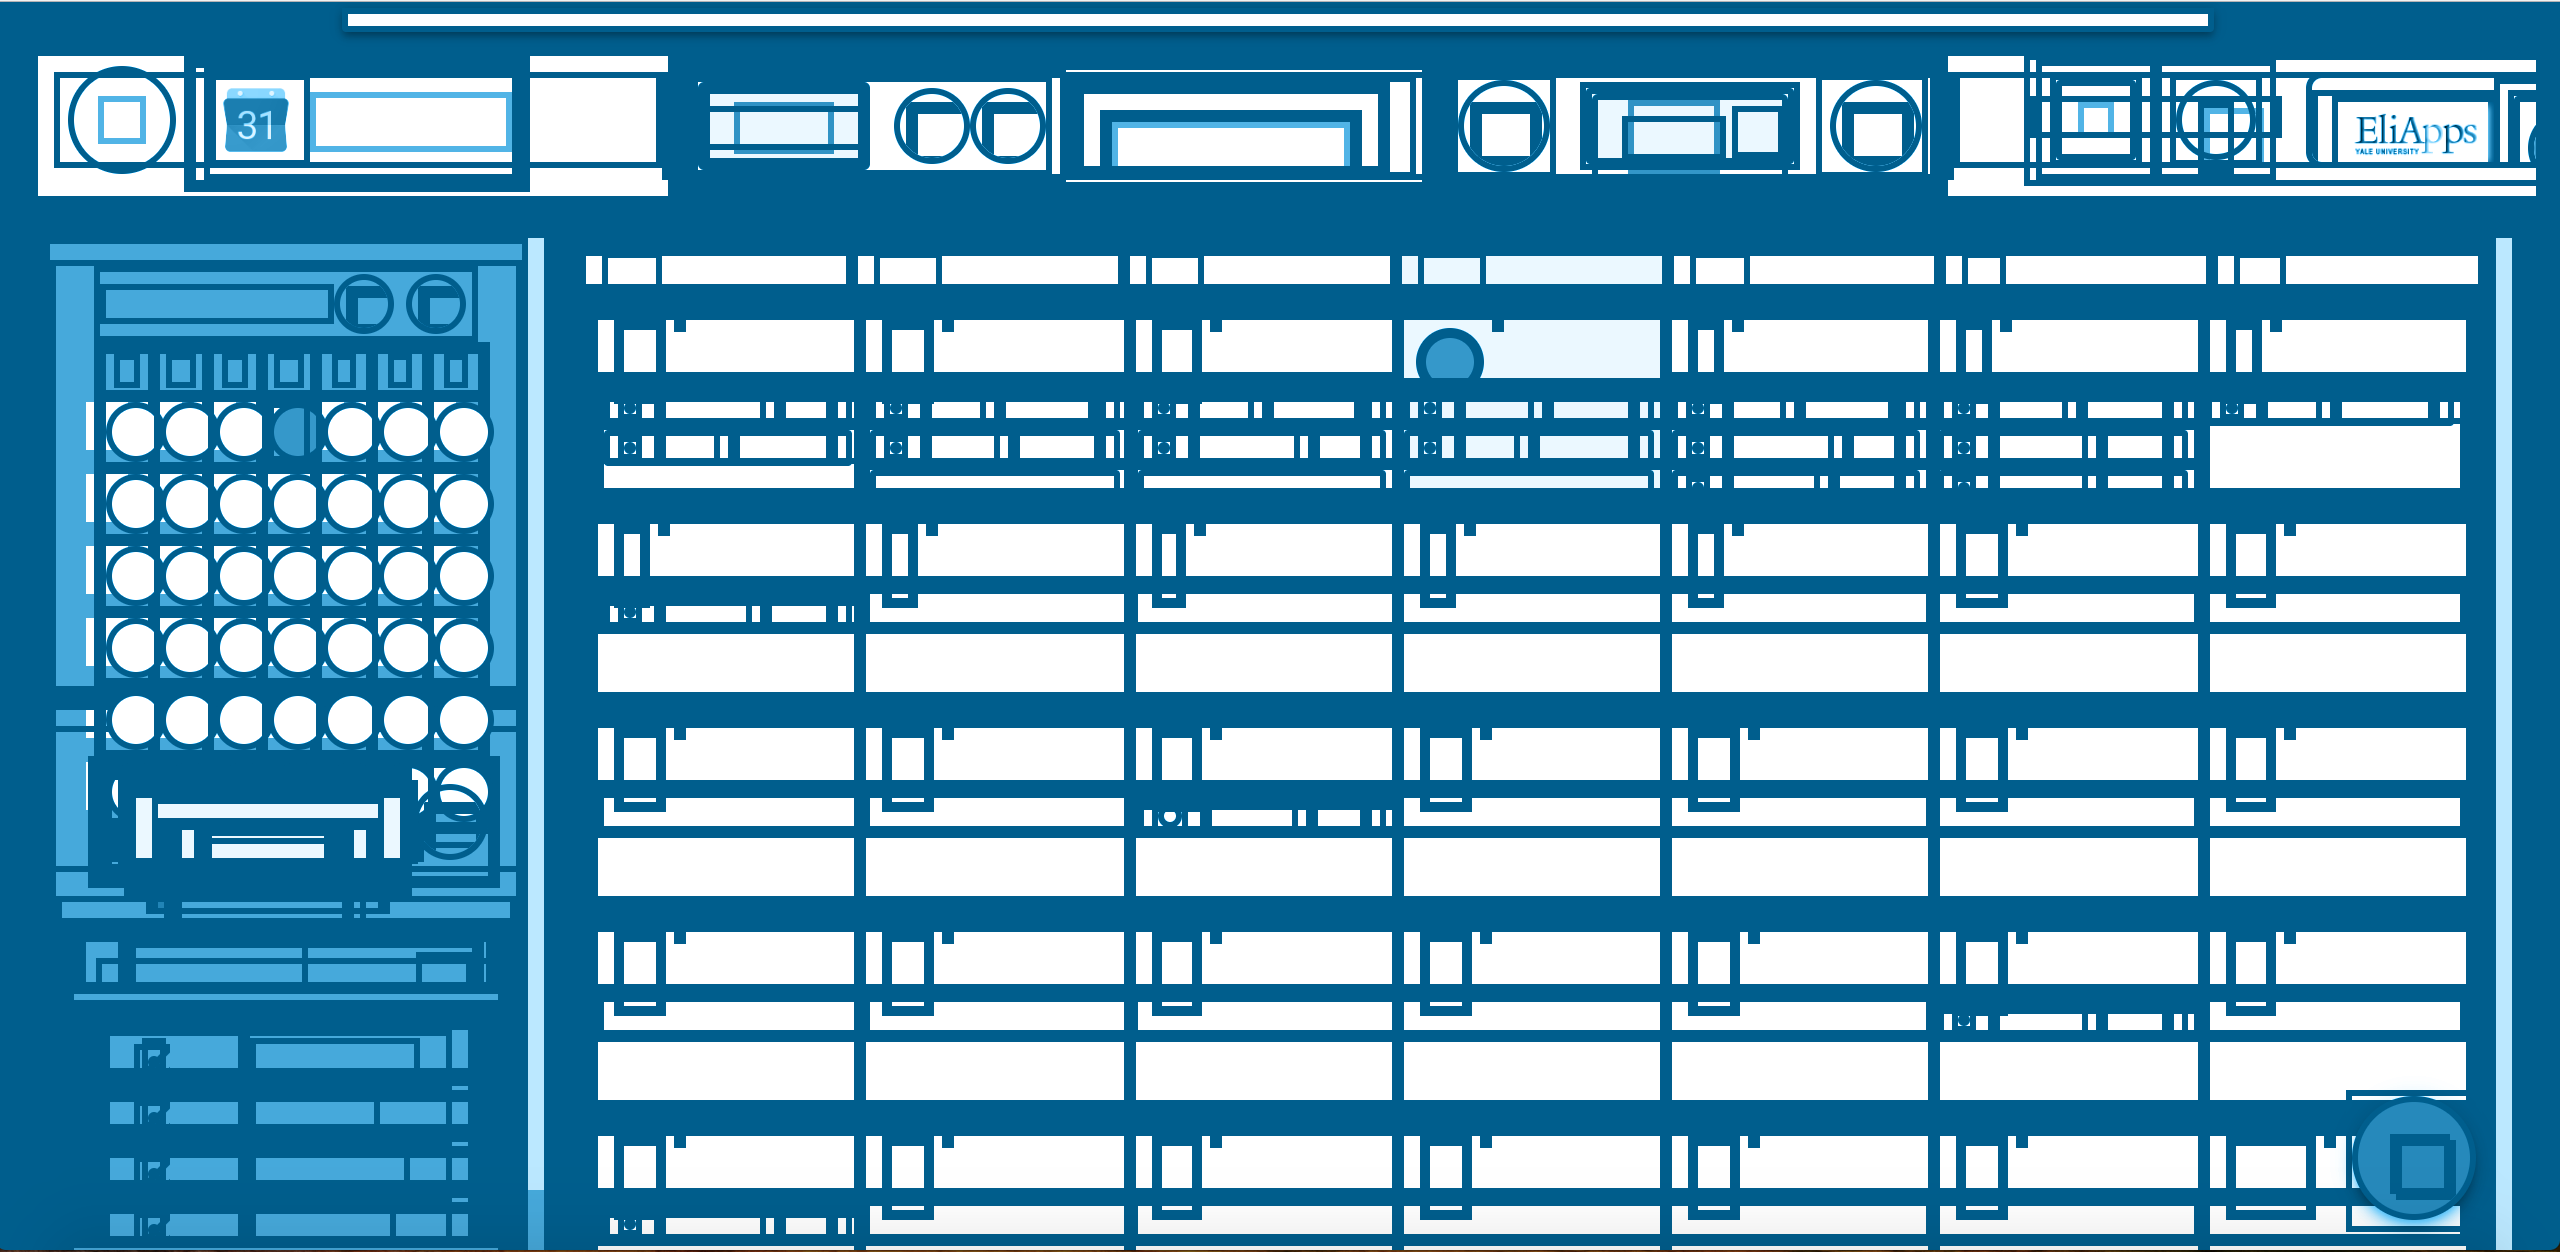
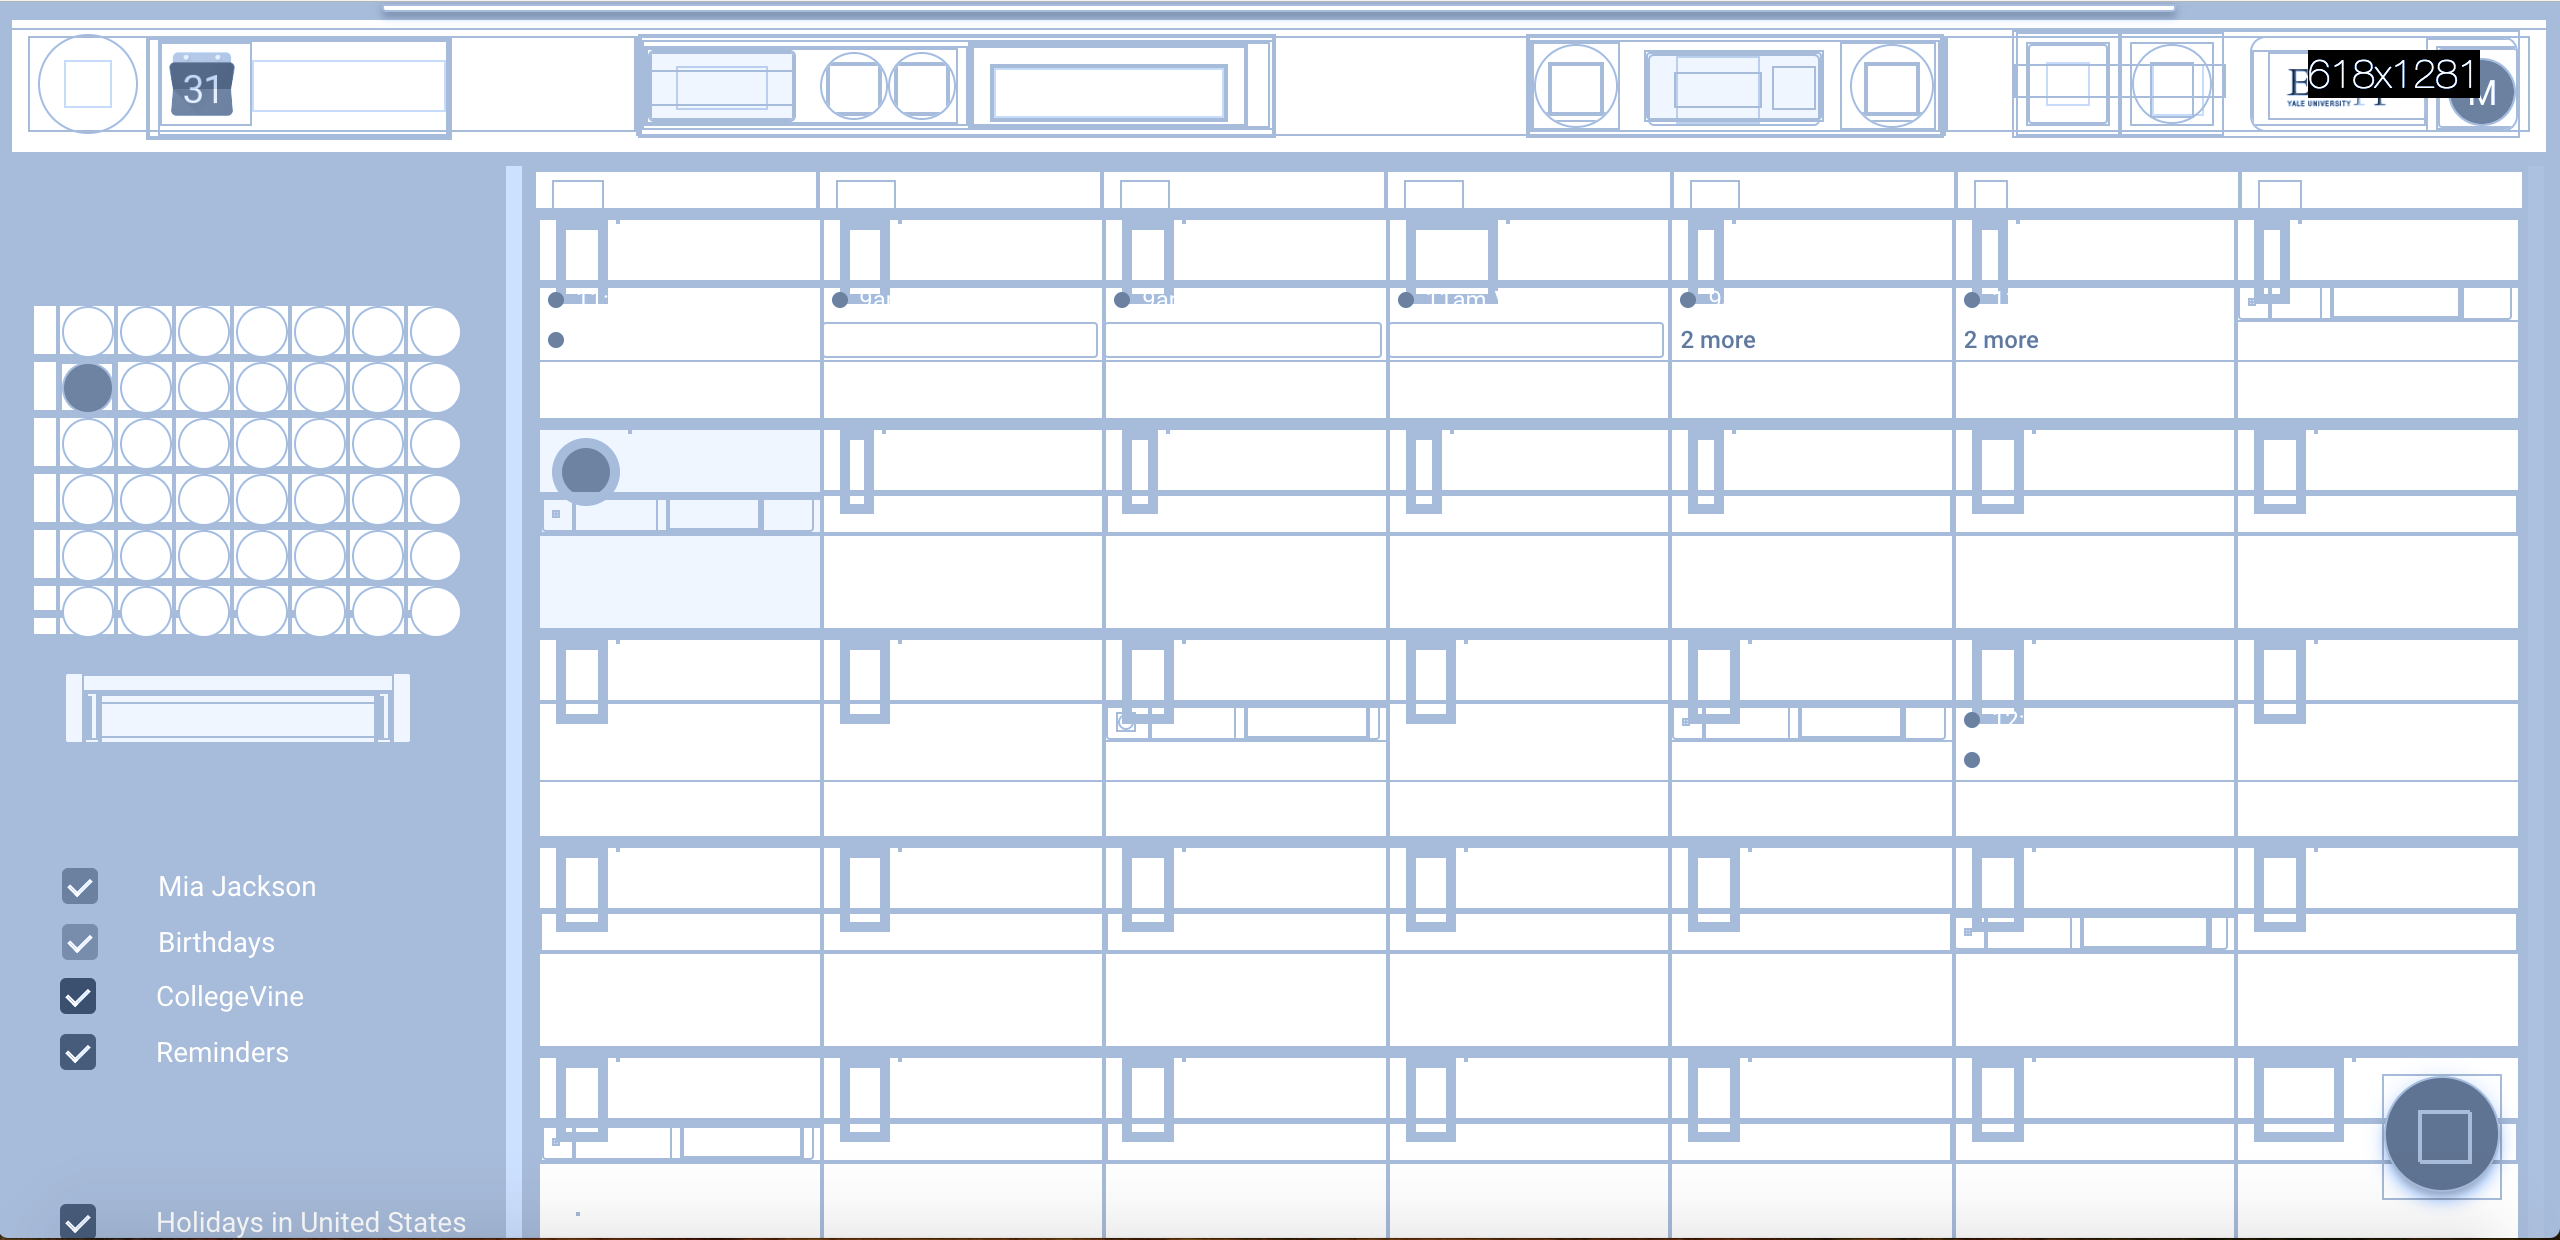
adding

diff --git a/weekly-projects/final-project-2/booktest.js b/weekly-projects/final-project-2/booktest.js
@@ -33,9 +33,10 @@ function initBookmarklet($) {
                 var colorG = Math.floor(Math.random() * 248);
                 var colorB = Math.floor((Math.random() * 153) + 102);
                 $('*').css('color', 'transparent');
-                $('*').css('border','1px solid #bacff2');
-                $('h1').css('border','8px solid #bacff2');
-                $('h2, h3, h4, h5').css('border','5px solid #bacff2');
+                $('*').css('border','1px solid white');
+                //#bacff2
+                $('h1').css('border','8px solid white');
+                $('h2, h3, h4, h5').css('border','5px solid white');
                 $('li, ul').css('border','2px solid white');
                 $('hr').css('border','1.5px solid white');
 
